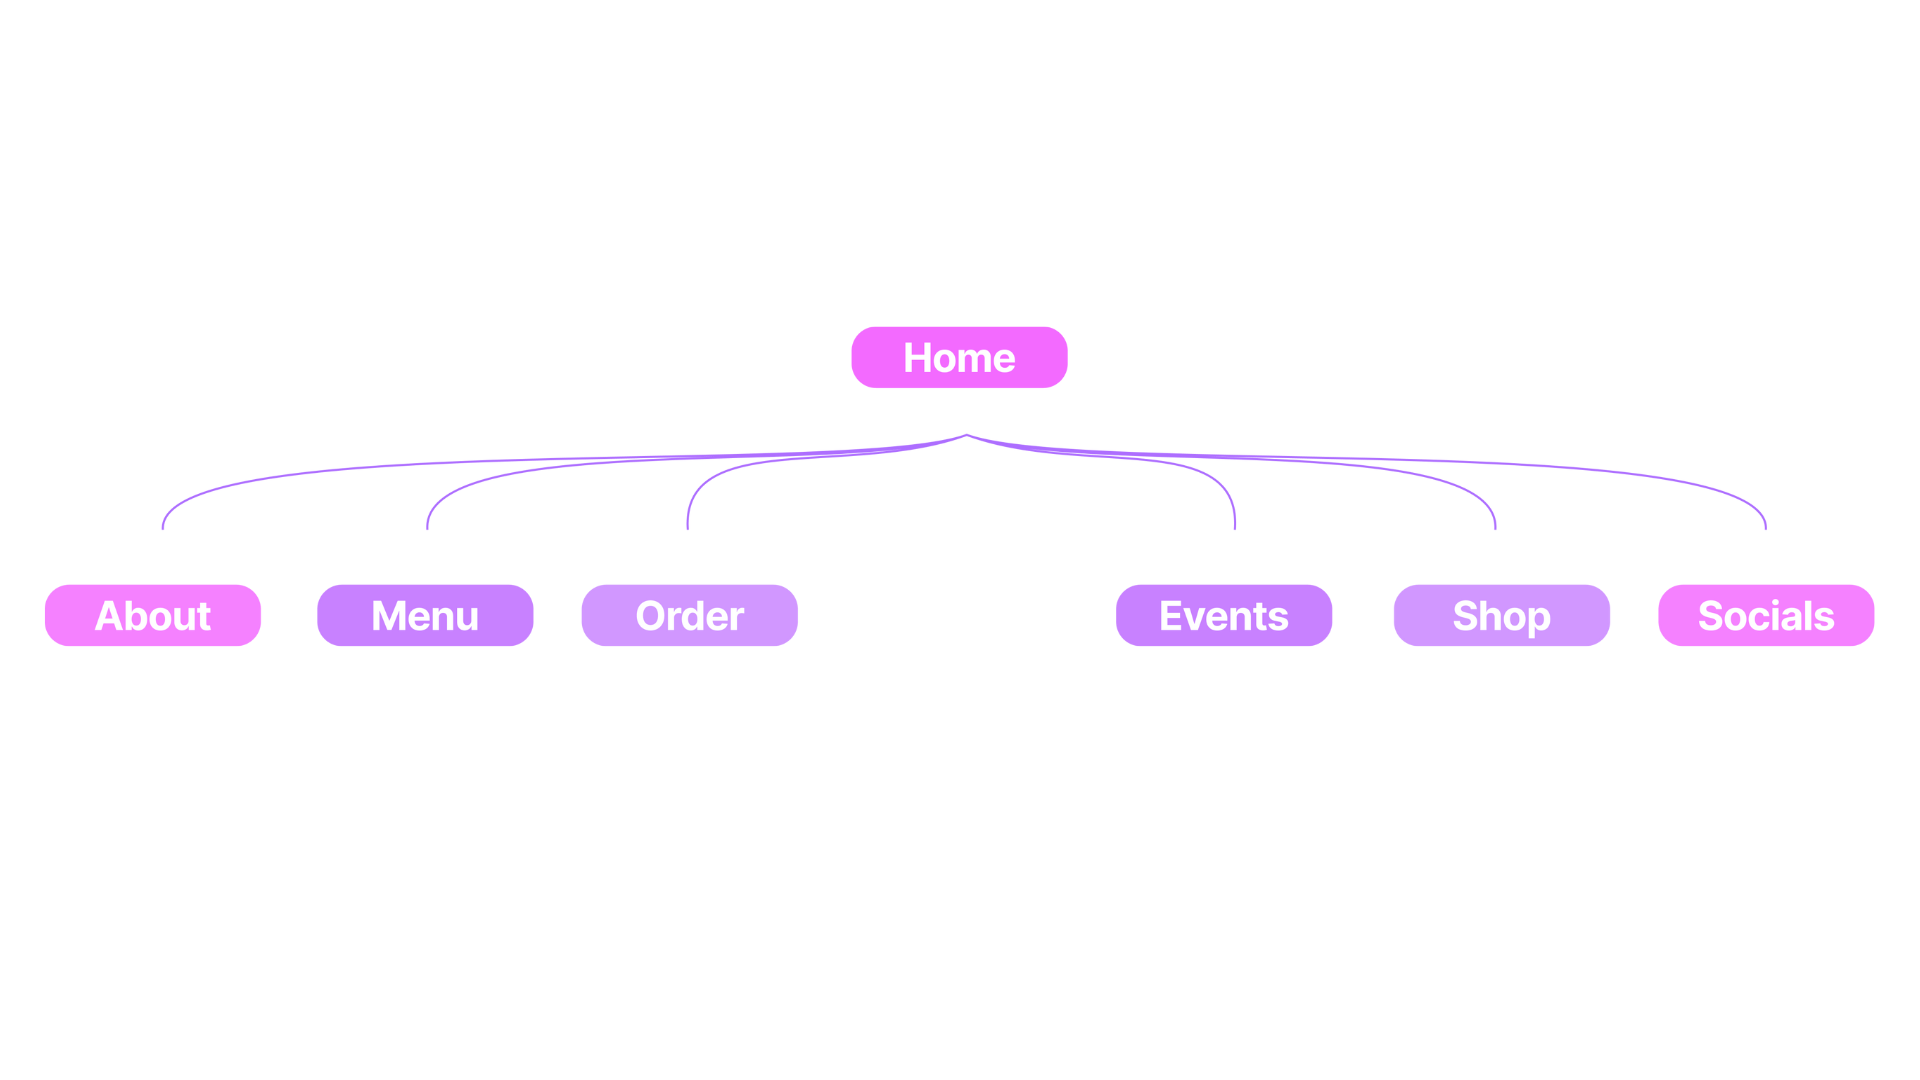
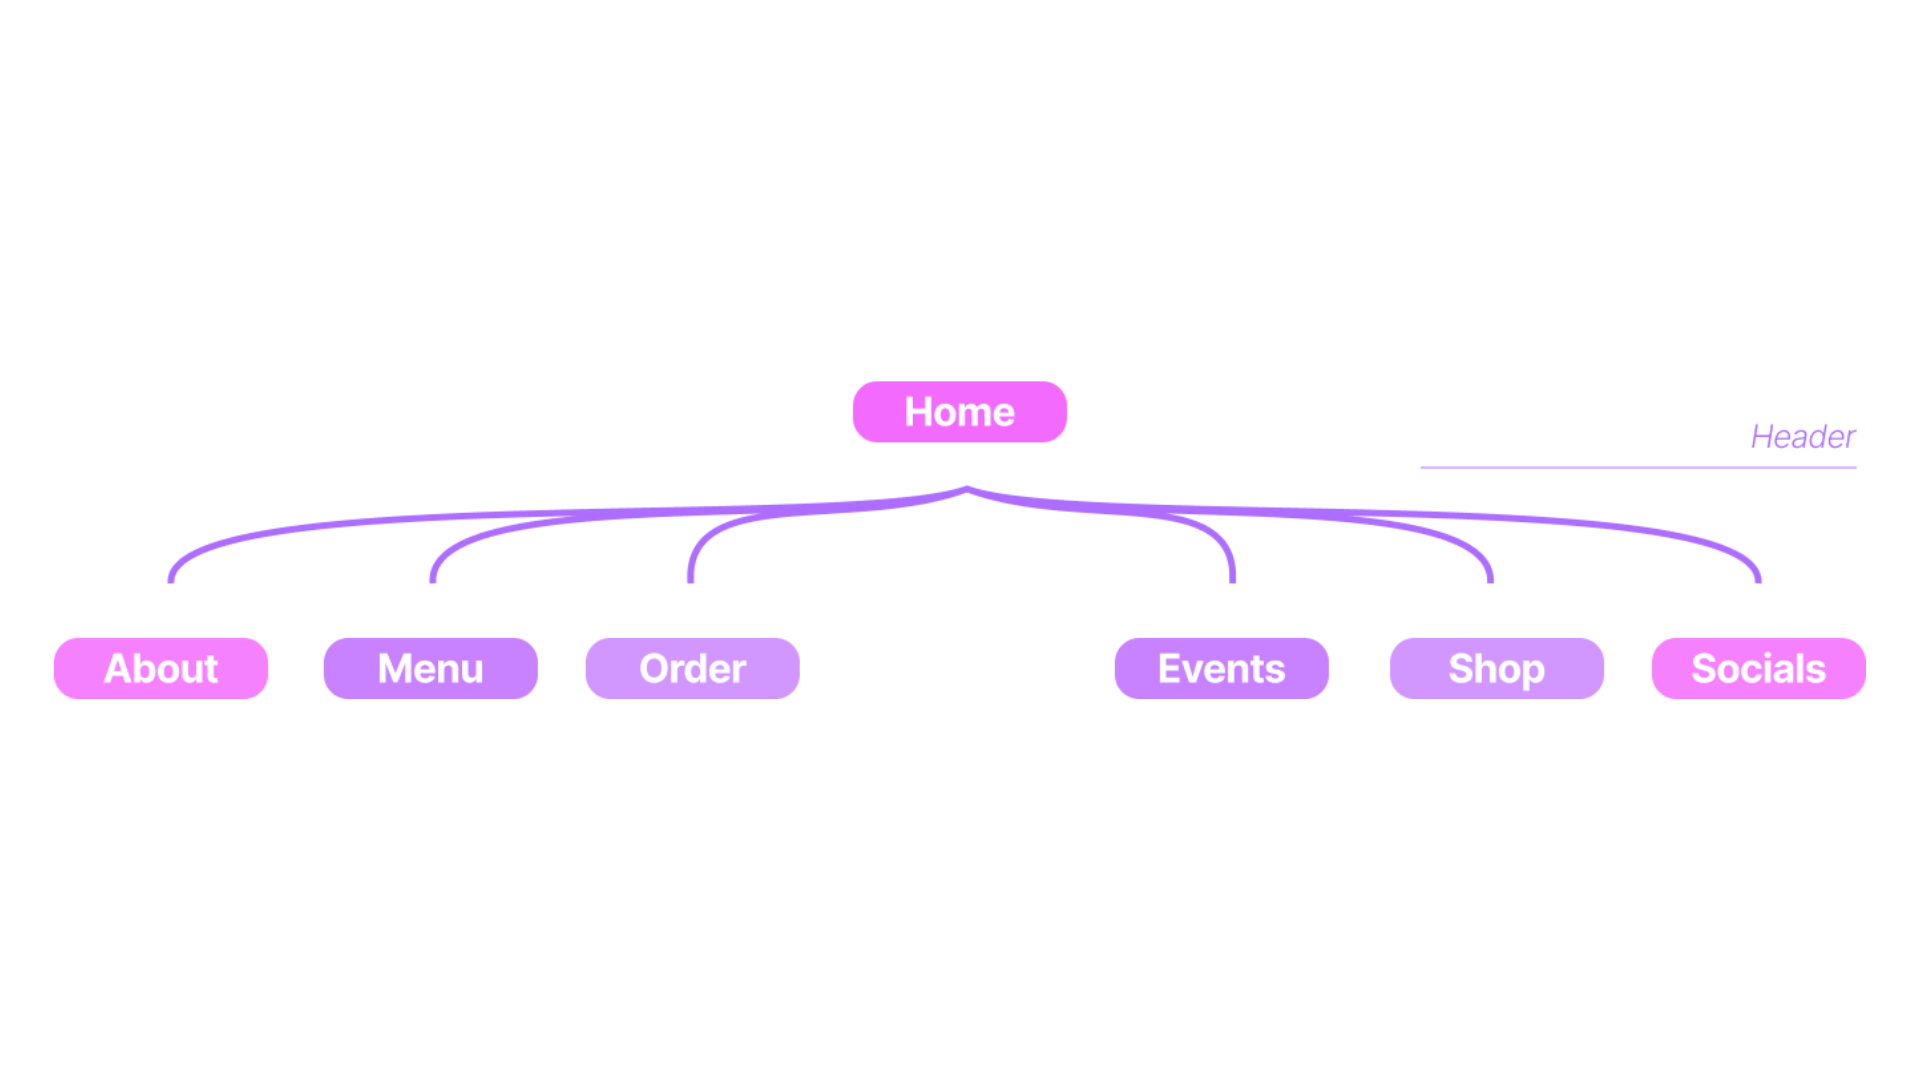
updated taco kellz

Changed region(s): [[0.0, 0.275, 1.0, 0.6722], [0.9062, 0.3972, 0.9688, 0.4278]]

diff --git a/taco.html b/taco.html
@@ -154,50 +154,71 @@
                     </div>
                 </div>
 
-                <!-- Second row -->
-                <div class="row">
-                    <div class="sub-section">
-                        <h1>Starting Fresh</h1>
-                        <h2>Designing the Website</h2>
-                        <p>Web Design and Web Development. The objective was to design and develop a single-scroll
-                            website. My client, Taco Kellz, needed an engaging and functional site where customers could
-                            learn more about Kelly’s journey and explore her menu. The goal was to create a seamless
-                            experience that reflected her brand’s vibrant and youthful personality. First I created a
-                            wireframe
-                        </p>
-                    </div>
-                    <img src="img/taco/taco_order_sq.gif" alt="Image 6">
-                </div>
-                <div class="row">
-                    <div class="full-width">
-                        <img src="img/taco/taco_map.png" alt="">
-                    </div>
-                </div>
-                <!-- Third row -->
-                <div class="row row-reverse">
-                    <img src="img/taco/taco_colors.png" alt="Image 2">
+                <div class="row ">
+
                     <div class="sub-section">
                         <h1>Pink and Youthful</h1>
                         <h2>Colors & Type</h2>
                         <p>Young, fun, and pink! Maintaining the original theme of Taco Kellz was essential to the
-                            client. I aimed to modernize her brand identity while preserving its signature charm. This
+                            client when moving forward with website designs. I aimed to modernize her brand identity
+                            while preserving its signature charm. This
                             refreshed design ensures her online presence stays visually appealing and continues to
                             attract hungry customers.
 
 
                         </p>
                     </div>
+                    <img src="img/taco/taco_colors.png" alt="Image 2">
                 </div>
-                <div class="row">
+                <div class="row row-reverse">
+                    <img src="img/taco/taco_moodboard.jpg" alt="Image 2">
                     <img src="img/taco/taco_type.png" alt="Image 2">
-                    <img src="img/taco/taco_moodboard.png" alt="Image 2">
+
 
                 </div>
+
+                <!-- Second row -->
+                <div class="row">
+                    <div class="sub-section">
+                        <h1>Starting Fresh</h1>
+                        <h2>Designing the Website</h2>
+                        <p>For this project, I designed and developed a seamless single-scroll website for
+                            Taco Kellz. The site needed to be both engaging and functional, offering customers a place
+                            to explore Kelly’s journey and discover her menu. To capture the brand’s vibrant, youthful
+                            personality, I started by creating a site map and Lo-Fi wireframe to shape the user
+                            experience.
+                        </p>
+
+
+                    </div>
+                    <img src="img/taco/taco_lofi.gif" alt="Image 6">
+                </div>
+                <!-- <div class="row">
+                    <div class="full-width">
+                        <img src="img/taco/taco_map.png" alt="">
+                    </div>
+                </div> -->
+                <div class="row row-reverse">
+
+                    <img src="img/taco/taco_hifi.gif" alt="Image 6">
+                    <div class="sub-section">
+                        <h1>Building the Site</h1>
+                        <h2>Lo-Fi to Hi-Fi</h2>
+                        <p>After finalizing the Lo-Fi wireframe, I created a high-fidelity version to visualize the
+                            design. This step was crucial in ensuring that the website's layout and functionality met
+                            the client's needs and expectations. The Hi-Fi wireframe served as a blueprint for the
+                            development process, allowing me to create a seamless user experience.
+                        </p>
+                    </div>
+                </div>
+                <!-- Third row -->
+
+
 
 
                 <!-- Fourth row -->
                 <div class="row row-reverse">
-                    <img src="img/taco/taco_puff.png" alt="Image 6">
+
                     <div class="sub-section taco">
                         <h1>Final Live Website
                         </h1>
@@ -208,6 +229,7 @@
                         </p>
                         <a class="button" href="httpw://www/tacokellz.com">Click here for the live website!</a>
                     </div>
+                    <img src="img/taco/taco_puff.png" alt="Image 6">
                 </div>
 
 
